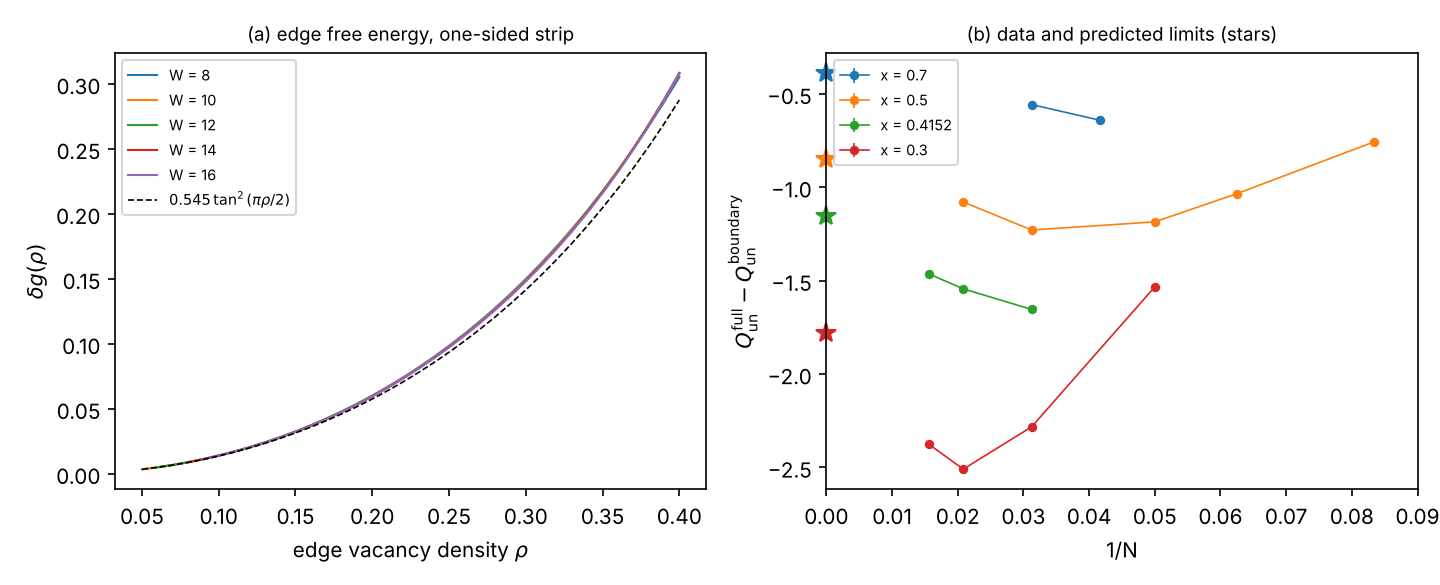
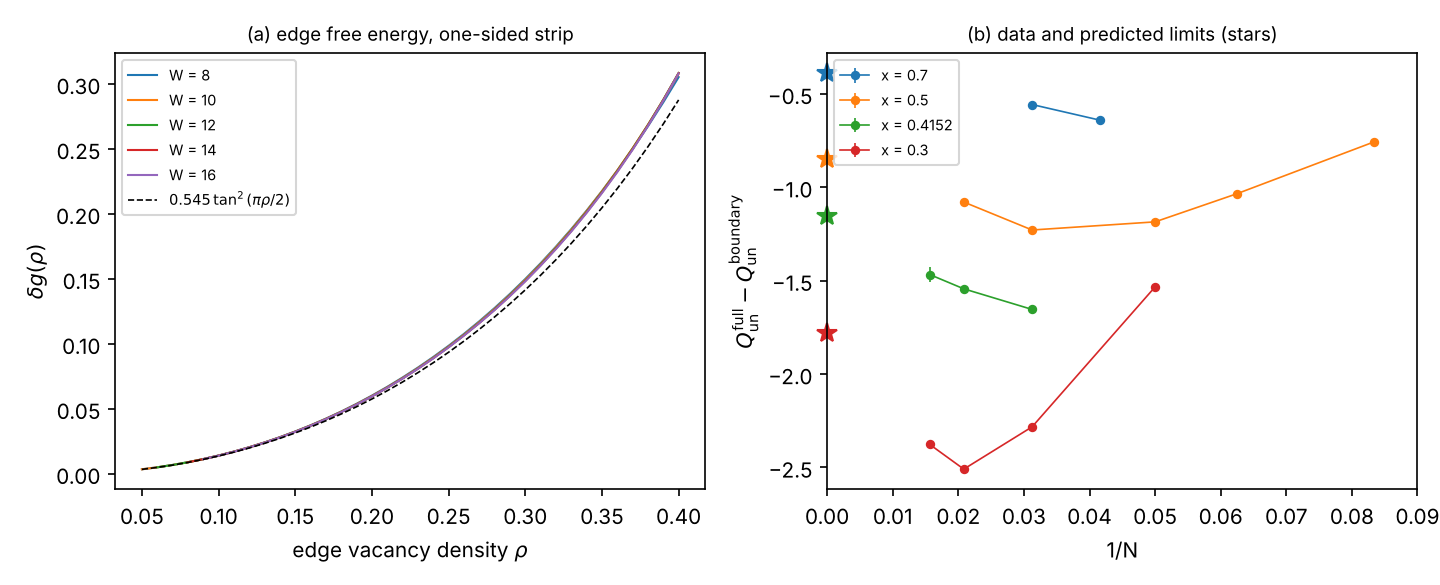
Full vs boundary: source and error of the N=64, z=1e-4 point; state the evidence level
The point is 18.475 +- 0.038 (task A interim report 4), not +- 0.02.
README now says what the data do and do not confirm, and records the
predictions for x = 0.6 and 0.8 before any data exist there.

Claude-Session: https://claude.ai/code/session_01FZuPgFiDrKu5WQzY5zLccF

diff --git a/scripts/full_vs_boundary/fig_full_vs_boundary.py b/scripts/full_vs_boundary/fig_full_vs_boundary.py
@@ -14,7 +14,7 @@ with open(P+'D_table.csv','w',newline='') as f:
     w=csv.writer(f); w.writerow(['N','z','x','Q_un_full','err','Q_un_boundary','D','source'])
     for N,z,q,e,qb,run in rows: w.writerow([N,f'{z:.10g}',f'{2*np.log2(1/z)/N:.5f}',f'{q:.5f}',f'{e:.5f}',f'{qb:.5f}',f'{q-qb:.5f}',run])
 pred={0.7:-0.3882,0.5:-0.8504,0.4152:-1.1554,0.3:-1.7798}          # predict.py 16 0.4 ...
-extra={0.4152:[(64,-1.464,0.02)]}                                   # manuscript Table (N = 64, z = 1e-4)
+extra={0.4152:[(64,-1.467,0.038)]}   # N = 64, z = 1e-4: Q_un = 18.475 +- 0.038 (taskA_results/reports/interim4_N64pl.md), Q_un(boundary) = 19.942
 fig,ax=plt.subplots(1,2,figsize=(9.6,3.9))
 a=ax[0]
 for W in Ws: a.plot(rs,tab[W],label=f'W = {W}',lw=1)
